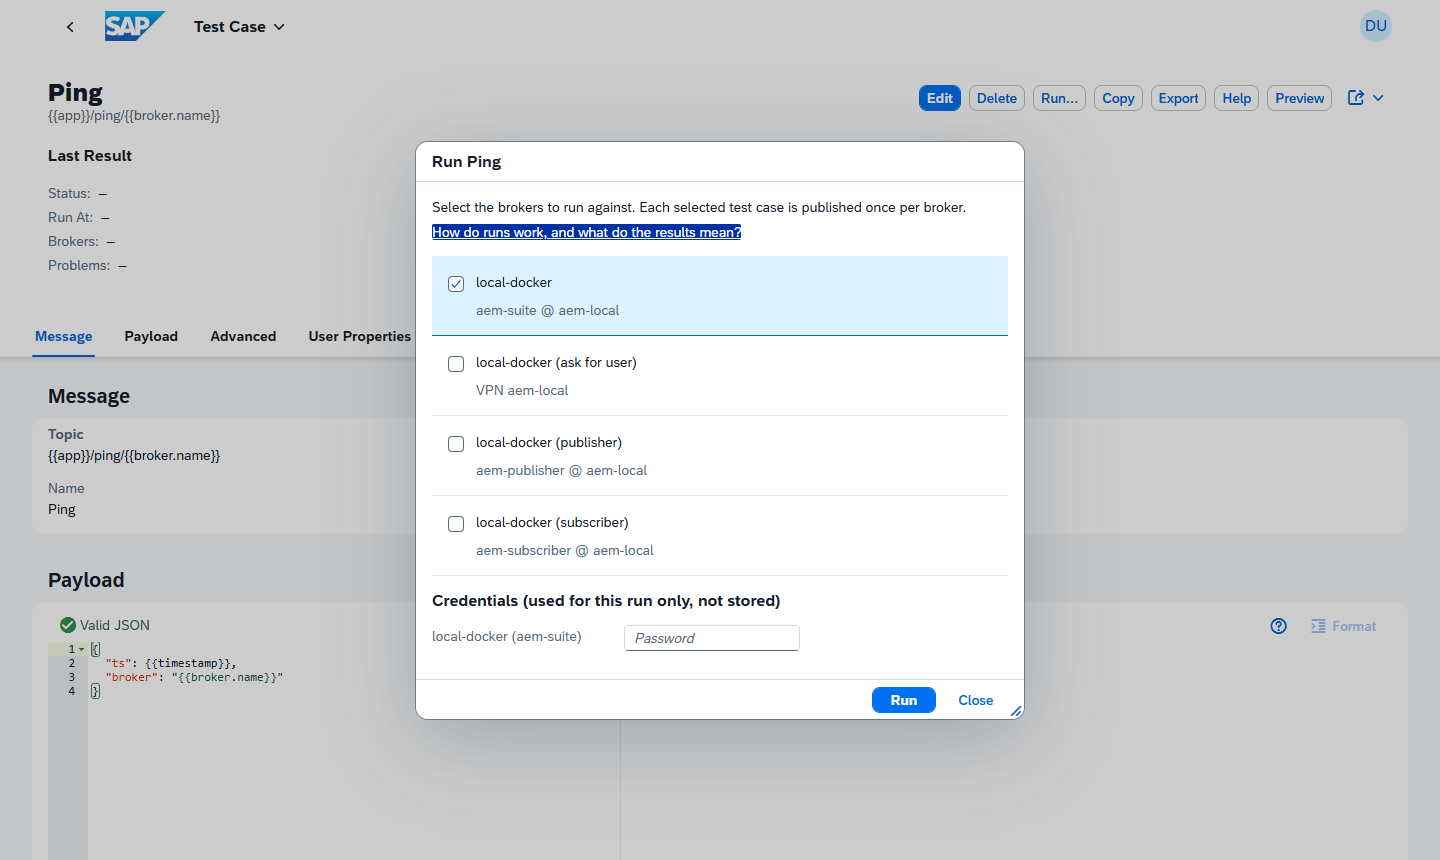
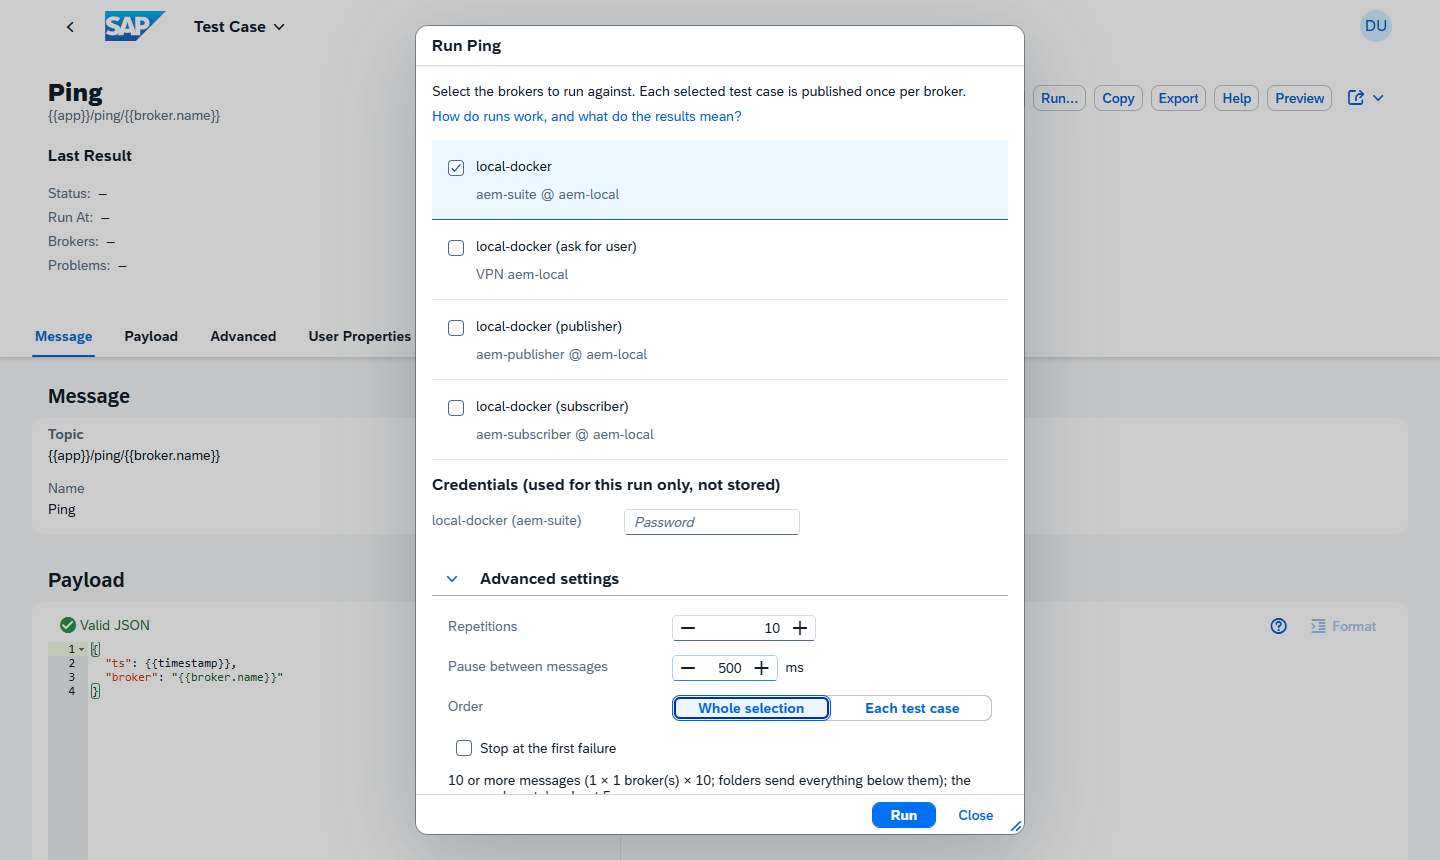
docs: advanced run settings (user guide, technical docs, README, screenshot)

Changed region(s): [[0.2812, 0.0302, 0.7188, 0.9977]]

diff --git a/scripts/screenshots/shots.spec.ts b/scripts/screenshots/shots.spec.ts
@@ -78,7 +78,14 @@ test('run dialog', async ({ page }) => {
   const dialog = page.getByRole('dialog', { name: /^Run Ping/ })
   await expect(dialog).toBeVisible()
   await dialog.getByText('local-docker', { exact: true }).click()
-  await page.waitForTimeout(500)
+  // the advanced settings open, with a repeated run
+  await dialog.getByText('Advanced settings').click()
+  const [repetitions, pause] = await dialog.getByRole('spinbutton').all()
+  await repetitions.fill('10')
+  await repetitions.press('Tab')
+  await pause.fill('500')
+  await pause.press('Tab')
+  await page.waitForTimeout(800)
   await page.screenshot({ path: out('run-dialog') })
 })
 

diff --git a/docs/user-guide.md b/docs/user-guide.md
@@ -220,11 +220,29 @@ The **Run dialog**:
 
 1. **Select brokers** – the brokers of your last run are preselected. Each selected test case is sent once to each selected broker.
 2. **Credentials** – for every selected *direct* broker a password field appears ("used for this run only, not stored"). If the broker has no username maintained, a **username** field appears next to it. Destination brokers need nothing.
-3. **Run** – progress is shown live (e.g. `3 / 6`, passed / failed).
-4. When finished: green **Finished** if all passed, red otherwise, with a **Problems** list (test case @ broker + reason).
-5. **Open Results** jumps to the run in *Test Runs*.
+3. **Advanced settings** (optional, click to open) – see below.
+4. **Run** – progress is shown live (e.g. `3 / 6`, passed / failed).
+5. When finished: green **Finished** if all passed, red otherwise, with a **Problems** list (test case @ broker + reason).
+6. **Open Results** jumps to the run in *Test Runs*.
 
-You can close the dialog at any time – the run continues on the server.
+You can close the dialog at any time – the run continues on the server. **Stop run** (while it runs) ends it early.
+
+### Advanced settings
+
+For repeating a message, simulating traffic or watching a flow over time:
+
+| Setting | Meaning |
+|---|---|
+| **Repetitions** | How often **every** test case is sent to **every** broker (1 – 1000, default 1). Variables, `{{uuid}}`, number ranges and faker values are resolved anew for every message, so each one is different. |
+| **Pause between messages** | Wait (0 – 60 000 ms) between two messages to the same broker – not before the first one. Brokers run in parallel, so the pause does not add up across brokers. |
+| **Order** (with more than one repetition) | **Whole selection**: a, b, c, a, b, c … (like mixed traffic). **Each test case**: a, a, a, b, b, b … |
+| **Stop at the first failure** | After a message failed, the rest of **that broker** is not sent (status **SKIPPED**). Other brokers go on. |
+
+The dialog shows what you are about to start, for example *"30 or more messages … the pauses alone take about 2 min"* (a folder sends everything below it). Your settings are remembered for the next run.
+
+**Stop run** ends a run early (the user who started it, or an administrator): messages not sent yet get the status **SKIPPED**. A message that is already on its way is finished.
+
+A run is limited (`cds.aemSuite.runs`): at most 1000 repetitions and 5000 messages (test cases × brokers × repetitions) per run.
 
 ### What do the results mean?
 
@@ -233,6 +251,7 @@ You can close the dialog at any time – the run continues on the server.
 | **PASSED** | Persistent: the broker acknowledged the message. Direct: the message was sent. |
 | **FAILED** | The broker rejected the message, or no acknowledgement arrived in time. |
 | **ERROR** | The message could not be sent at all – e.g. unknown variable, invalid JSON, wrong password, broker not reachable. |
+| **SKIPPED** | Not sent: the run was stopped, or an earlier message to this broker failed and *Stop at the first failure* was on. Skipped messages are not counted as failed. |
 
 PASSED means the broker accepted the message. It does not check whether a consumer received or processed it – use the Live Subscriber or saved messages for that.
 
@@ -242,6 +261,7 @@ PASSED means the broker accepted the message. It does not check whether a consum
 
 **Test Runs** lists one row per test case × broker, newest run first:
 
+- With repetitions, each row has its **Repetition** number (1 = the first message of that test case); rows are in the order they were sent.
 - **Test Case** and **Broker** are separate columns and separate filters. Click a name to open that test case or broker configuration (the *Brokers* app needs the Admin role).
 - **Status**: PASSED / FAILED / ERROR, with **ACK latency**, delivery mode, the resolved topic and the error message
 - **Run Started** (click to open the whole run with its totals) and **Started By**

diff --git a/docs/technical-documentation.md b/docs/technical-documentation.md
@@ -341,6 +341,9 @@ Loads test cases with properties and variables, builds the variable scopes (`loa
 
 `createRun` → validation (brokers exist and are active, passwords for DIRECT brokers, at least one test case after folder expansion), `summary`, pending rows. `executeRunInBackground` → see section 3. `waitForRun(runId)` exists for tests.
 
+
+**Advanced settings** (`RunOptions` of `runTests` / `runTest`, saved on the `TestRuns` row): `repetitions` (1 - `runs.maxRepetitions`), `delayMs` (0 - `runs.maxDelayMs`), `order` (`ROUND`: the selection N times; `EACH`: every test case N times in a row) and `stopOnFailure`. `createRun` checks them (`normalizeOptions`) and the total (test cases x brokers x repetitions <= `runs.maxResults`), and creates one PENDING `RunResults` row per message with `iteration` and `sequence` (the order within a broker). `runBroker` sends a broker's rows in `sequence` order, waits `delayMs` between two messages (`pause`, interrupted when the run is stopped) and - after a failed message with `stopOnFailure`, or when the run was stopped - marks the rest `SKIPPED` (`RunProgress.skip`: counted as done, in `TestRuns.skippedCount`, not as failed; skipped results do not touch `TestCaseStats`). `cancelRun` (service action `cancelRun(runId)`) puts the run into an in-memory set that the loops check, so it only works on the instance that executes the run; allowed for the user who started the run and for administrators.
+
 ### 7.7 `tree.ts`
 
 In-memory tree over `TestCases` (`ID`, `parent_ID`, `kind`, `name`, `sortOrder`): `ancestors`, `isWithin` (cycle check), `expandToTests` (folders → test cases in tree order), `compareSiblings` (folders first, then `sortOrder`, then name).
@@ -432,6 +435,7 @@ In-memory registry of live subscriptions (one session each). Limits (configurabl
 | `cds.aemSuite.agent.allowDirectCredentials` | false | development only: let `runTests` accept passwords of direct brokers (they would pass through the AI conversation) |
 | `cds.aemSuite.mcp.publicUrl` | – | public app URL for the MCP OAuth discovery; default: from the approuter's forwarded headers |
 | `cds.aemSuite.mcp.authorizationServer` | XSUAA `credentials.url` | authorization server advertised to MCP clients |
+| `cds.aemSuite.runs.maxRepetitions` / `maxDelayMs` / `maxResults` | 1000 / 60000 / 5000 | limits of the advanced run settings: repetitions, pause between messages (ms), messages per run |
 | `cds.aemSuite.faker.locale` | `en` | Language of `{{faker...}}` test data (`de`, `fr`, `es`, `en_GB`, ...). |
 | `cds.mcp.prefix` / `cds.mcp.autowire` | true / false | MCP plugin: prefix tool names with the service name; do not register the endpoint in local AI clients automatically |
 | env `destinations` | – | local destinations (JSON array, SAP Cloud SDK format + `msgVpn`/`smfUrl`) |

diff --git a/README.md b/README.md
@@ -42,6 +42,8 @@ Pick one or more brokers and run. Progress arrives live, and the results are kep
 
 ![Run dialog](docs/images/run-dialog.png)
 
+The **advanced settings** of the Run dialog repeat messages (up to 1000 times), pause between them, send the whole selection or each test case in a row, stop at the first failure, and **Stop run** ends a long run early.
+
 ### Variables on every level
 
 `{{name}}` is resolved from the test case, then the broker, then the folders (inner first), then the global variables, then the built-ins. Folder variables are maintained right on the folder page.
